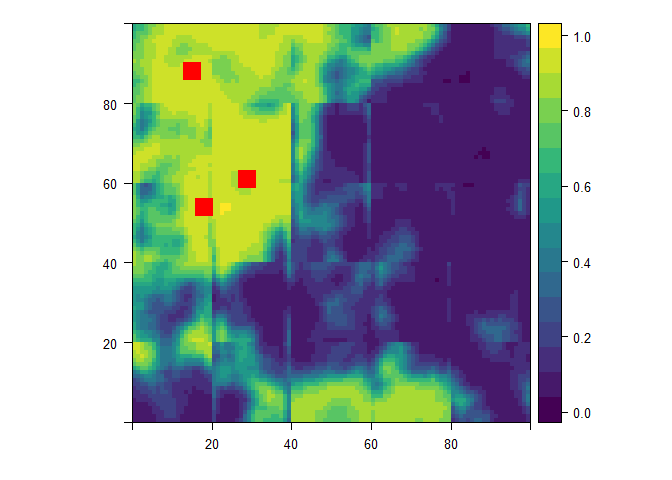
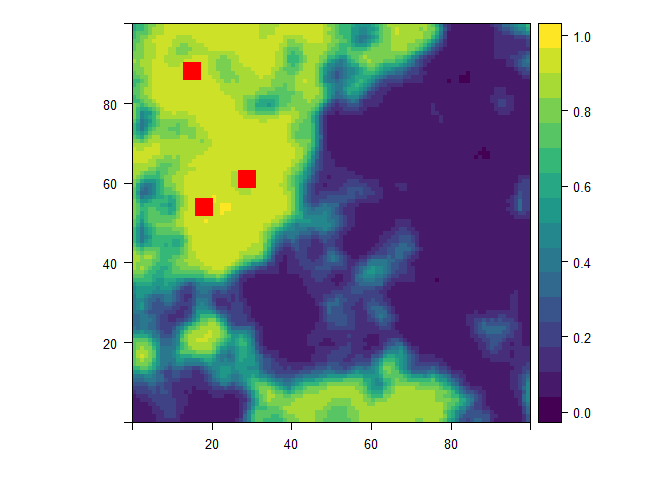
README update to reflect correct cropping/blocking in parallel.

diff --git a/README.md b/README.md
@@ -149,9 +149,7 @@ rasterVis::levelplot(pred_rast, margin = FALSE, par.settings=viridisTheme()) +
 
 ![](README_images/README-predict_rasters-2.png)
 
-### Now with parallel processing!
-
-#### and ability to split large study areas into blocks for prediction (working on edge effects...)
+### Now with parallel processing by splitting the raster into blocks!
 
 ``` r
 library("doParallel")
@@ -164,9 +162,9 @@ cl <- makeCluster(detectCores())
 doParallel::registerDoParallel(cl)
 
 ### Use same KLR_raster_predict function with parallel = TRUE
-pred_rast_list <- KLR_raster_predict(pred_var_stack_scaled, ngb = ngb, params, split = TRUE, ppside = 5,
+pred_rast_list <- KLR_raster_predict2(pred_var_stack_scaled, ngb = ngb, params, split = TRUE, ppside = 5,
                                    progress = FALSE, parallel = TRUE, output = "list",
-                                   save_loc = NULL, overwrite = TRUE)
+                                   save_loc = NULL, overwrite = TRUE, cols = cols, rows = rows)
 #> Splitting rasters into blocks 
 #> Predicting splits in parallel on 8 cores
 ### Merge list back to a single raster
